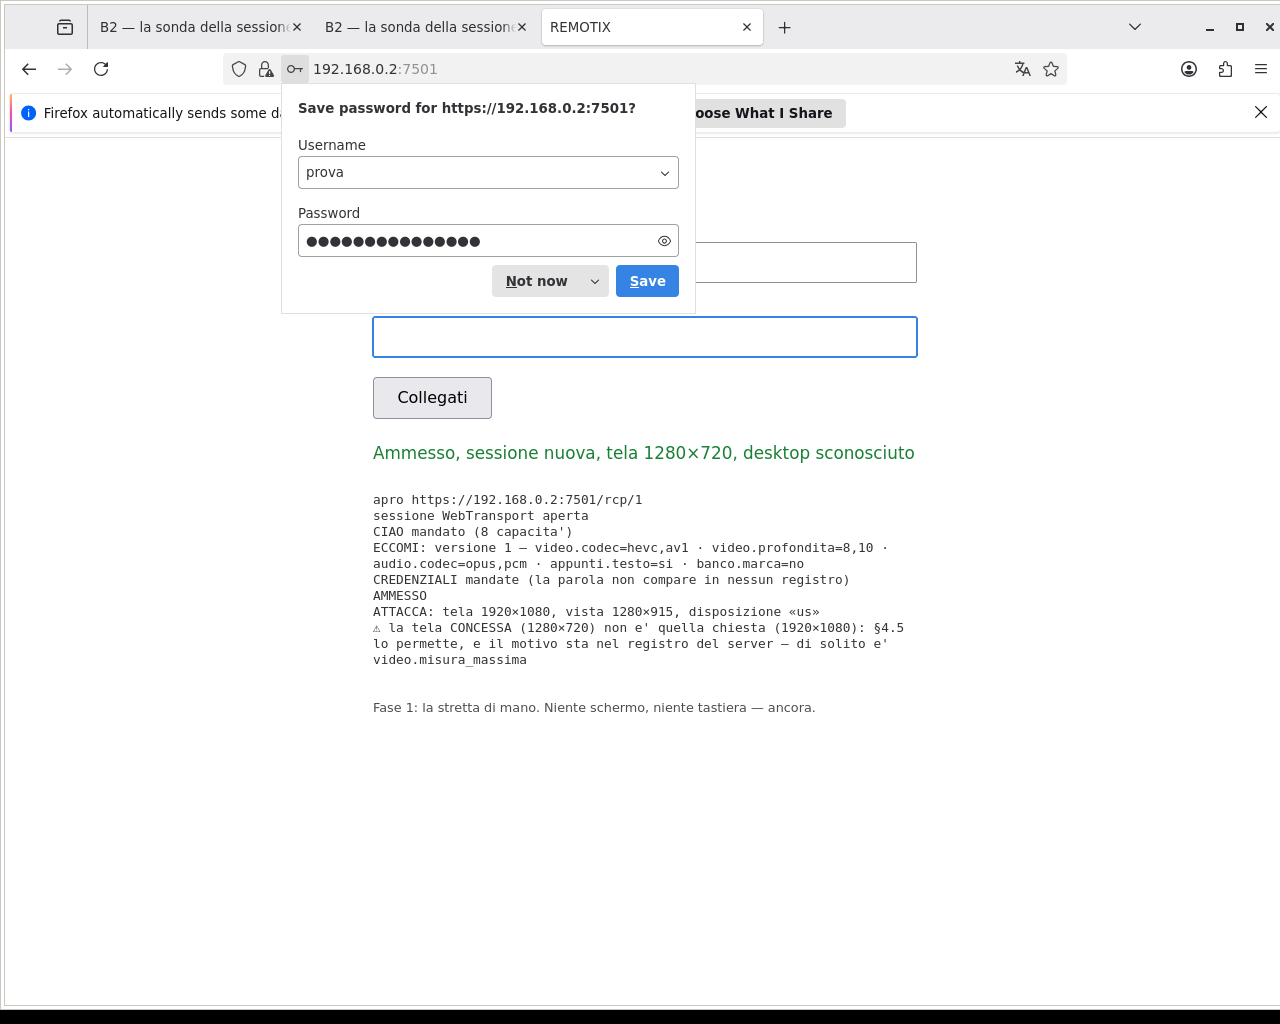
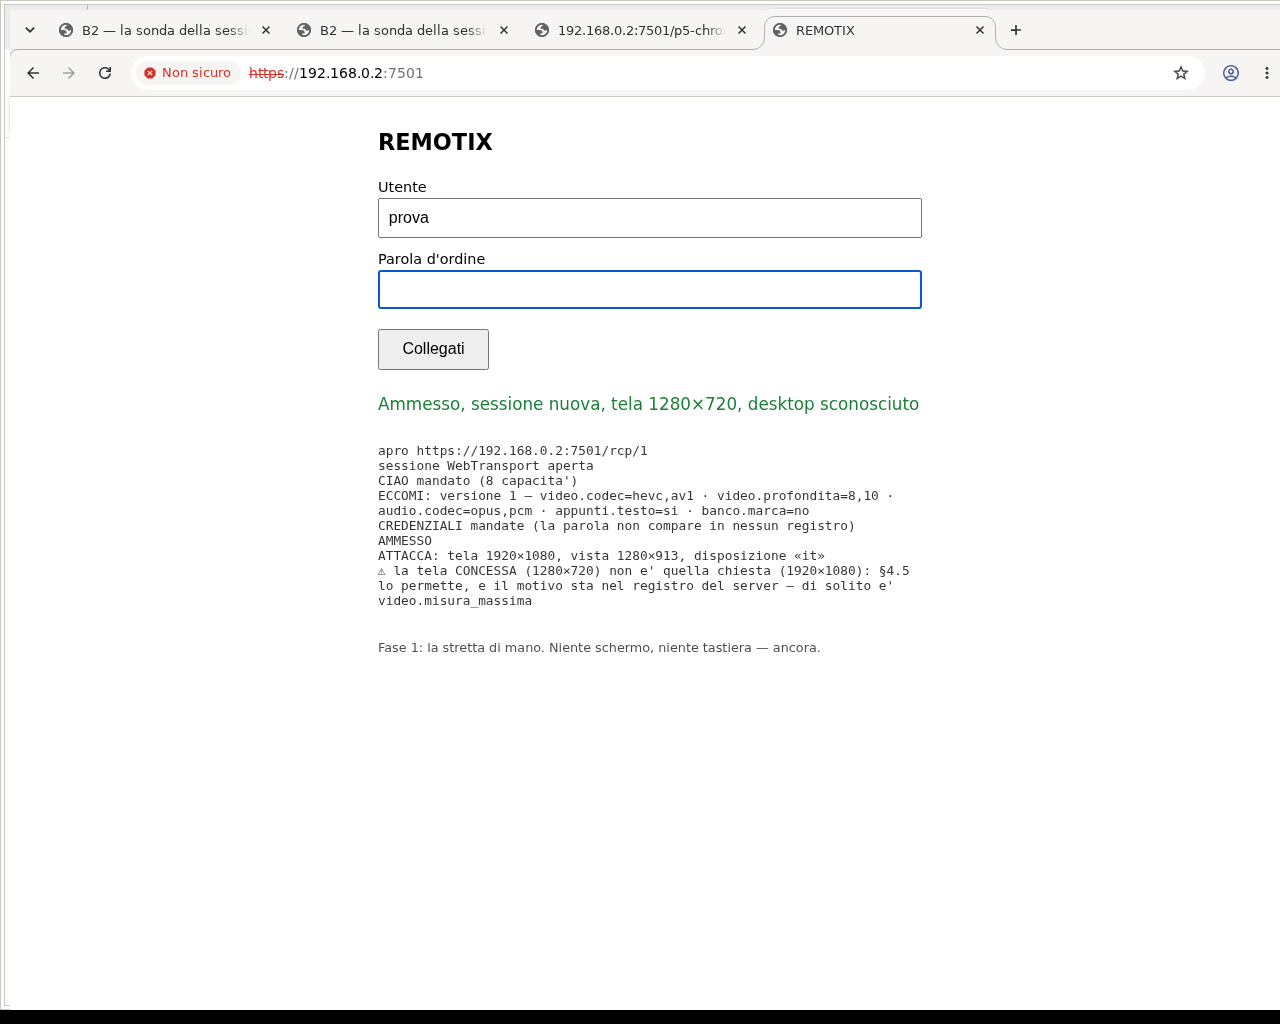
P5 rilanciato: la gamba che contava e' VERDE su tutt'e due i motori — e due difetti del pilota trovati da due fotografie
⭐⭐ IL RISULTATO.  `[M]` la notte fra l'11 e il 12 agosto 2026, contro una copia
del prodotto CURATO sulla 7501: la gamba `p-sessione` e' CONFORME su Chrome E su
Firefox — 15 controlli, 0 guasti, congedo per tutt'e due le strade col motivo
0x01, violazione-31 a zero, posto preso e lasciato.  ⇒ Il punto che teneva P5
fuori dal verde non c'e' piu'.

⭐ E LA GAMBA N2 GIRA, per la prima volta da quando esiste: bastava poter passare
da sudo.  `SSH_ROOT` sceglie il portatore dei comandi privilegiati, e lo sblocco
di §4.4-bis risponde PONG.  ⛔ I due portatori restano DUE: sshpw.py lascia due
righe di preambolo nel proprio stdout, e usarlo anche per SCARICARE il registro
sporcherebbe la prova con lo strumento che la raccoglie.

⛔ DUE DIFETTI DEL PILOTA, e tutt'e due li ha trovati una FOTOGRAFIA — cioe' la
cosa che questo banco scatta dicendo «materiale per chi legge, NON un verdetto».

 1. Il browser di N1 SOPRAVVIVE e la gamba dopo ci si attacca.  Firefox con tre
    schede — due della sonda — fermo sul marcatore d'avvio dopo due ctrl+l +
    indirizzo + Invio andati nel vuoto.  `kill` ammazza il processo ma la
    finestra resta, e la gamba dopo riusa lo stesso profilo: il browser nuovo
    non nasce, si attacca al vecchio.  ⭐ Cura gia' in casa: quella che
    01-p5-ff-lancia.sh aveva misurato lo stesso giorno (pulisci_scena).
 2. La striscia «Firefox automatically sends some data…» spinge la pagina in giu'
[…]

diff --git a/banchi/01-b12-guasti.py b/banchi/01-b12-guasti.py
@@ -1006,7 +1006,35 @@ guasto(
     "ricostruisce",
     "fasi/01-filo-nudo.md P5 · RCP.md §4.1-bis (R1.14) · README.md «CHE COSA "
     "FARE ADESSO» punto 5",
-    nota="⛔ **P5 E' PROVATO E NON RIUSCITO — e non «non provabile qui», che e' "
+    nota="⭐⭐ **AGGIORNATO LA NOTTE FRA L'11 E IL 12 AGOSTO 2026 — I QUATTRO "
+         "OSTACOLI DELL'ELENCO IN FONDO SONO TRE FATTI E UNO IN CORSO.**\n"
+         "       ⭐ **1 — il congedo di Firefox: CURATO NEL PRODOTTO E "
+         "MISURATO.**  L'imputato era la pagina (`congeda_corrente` azzerato un "
+         "millisecondo dopo `SESSIONE`), su tutt'e due i motori; la cura e' in "
+         "`src/pagina.html` e in `src/rcp.c` (il `posto LASCIATO` che sulla "
+         "strada del congedo non veniva scritto).  Fuori fase e dichiarata: "
+         "`DECISIONI.md` §1.12.\n"
+         "       ⭐ **2 — la scena: CURATA.**  Due schede, cosi' `ctrl+w` chiude "
+         "la SCHEDA e non fa uscire Firefox; il contatore pretende `motivo "
+         "0x01`; la scena si ripulisce prima di ogni browser; e la striscia dei "
+         "dati di Firefox non sposta piu' la pagina sotto i clic misurati.\n"
+         "       ⭐ **3 — lo sblocco: CURATO.**  `SSH_ROOT` sceglie il portatore "
+         "dei comandi privilegiati (`v1/strumenti/sshpw.py` digita la password "
+         "su un pty).  ⇒ **La gamba N2 gira, per la prima volta.**\n"
+         "       ⭐⭐ **E IL RISULTATO CHE CONTA**: `[M]` la gamba `p-sessione` "
+         "e' **CONFORME su TUTT'E DUE i motori** — 15 controlli, 0 guasti, "
+         "`violazione-31` a zero, il posto preso e lasciato.\n"
+         "       ⏳ **4 — i tre giri sano → guasto → sano: DA FARE.**  Il primo "
+         "e' stato interrotto dal riavvio della macchina dei browser ed e' "
+         "annullato e dichiarato in `01-p5-esiti.jsonl`.  ⛔ Il bersaglio e' la "
+         "copia sulla **7501**, che si accende con `01-p5-accendi.sh` (la "
+         "ricetta che stava in prosa qui sotto adesso e' un file, e un file non "
+         "lo si ricopia a mano sbagliando).  Il seguito sta in `README.md`, "
+         "«DA QUI SI RIPRENDE».\n"
+         "       ⚠ *Quel che segue e' la fotografia della sera dell'11, tenuta "
+         "perche' spiega da dove si partiva — e perche' il verdetto vecchio si "
+         "corregge con una misura nuova, non cancellandolo.*\n"
+         "       ⛔ **P5 E' PROVATO E NON RIUSCITO — e non «non provabile qui», che e' "
          "l'altra cosa** (R12-A.31).  Il guasto e' stato innestato, "
          "ricostruito e girato per davvero la sera dell'11 agosto 2026.\n"
          "       ⛔ **IL MOTIVO NON E' DEL GUASTO: E' CHE IL GIRO SANO DI P5 "

diff --git a/fasi/01-filo-nudo.md b/fasi/01-filo-nudo.md
@@ -1143,6 +1143,38 @@ i due scoperti erano i banchi dei due difetti più cari di v1 (R3.7, R4.6).*
 > due colonne e tutta l'impalcatura — **non è stato fatto**. Sono due parole diverse, e questa fase
 > le ha già confuse una volta.
 >
+> #### ⭐⭐ E ALLORA P5 È STATO RILANCIATO — la gamba che contava è **VERDE su tutt'e due i motori**
+>
+> *`[M]` la notte fra l'11 e il 12 agosto 2026, contro una **copia del prodotto curato** sulla
+> **7501** (`banchi/01-p5-accendi.sh`, scritto stanotte: la ricetta stava in prosa dentro il
+> catalogo dei guasti, e una ricetta in prosa la ricopia a mano chi la usa).*
+>
+> | | |
+> |---|---|
+> | ⭐⭐ **`p-sessione`: CONFORME, Chrome E Firefox** | 15 controlli, **0 guasti**: congedo per **tutt'e due** le strade col motivo `0x01`, `violazione-31` a **zero**, posto **preso e lasciato**. ⇒ Il punto che teneva P5 fuori dal verde **non c'è più** |
+> | ⭐ **e la gamba N2 gira, per la prima volta da quando esiste** | bastava poter passare da `sudo`: `SSH_ROOT` sceglie il portatore dei comandi privilegiati (`v1/strumenti/sshpw.py` digita la password su un pty), e lo sblocco di §4.4-bis risponde `PONG`. ⛔ E i due portatori restano **due**: `sshpw.py` lascia due righe di preambolo nel proprio stdout, e usarlo anche per **scaricare** il registro sporcherebbe la prova con lo strumento che la raccoglie |
+>
+> ⛔ **E due difetti del PILOTA sono venuti fuori uno dopo l'altro, tutti e due trovati da una
+> FOTOGRAFIA** — cioè dalla cosa che questo banco scatta dicendo *«materiale per chi legge, NON un
+> verdetto»*:
+>
+> | | trovato da | e la cura |
+> |---|---|---|
+> | ⛔ **il browser di N1 sopravvive, e la gamba dopo ci si attacca** | `firefox-n2-parola-sbagliata-1-pagina.png`: Firefox con **tre schede** — due della sonda di N1 — ferma sul marcatore d'avvio, dopo due `ctrl+l`+indirizzo+`Invio` andati nel vuoto | `kill` ammazza il processo ma **la finestra resta**, e la gamba dopo riusa **lo stesso profilo**: il browser nuovo non nasce, si attacca al vecchio come scheda in più. ⭐ Cura **già in casa**: è quella che `01-p5-ff-lancia.sh` aveva misurato lo stesso giorno |
+> | ⛔ **la striscia dei dati sposta la pagina di ~23 px** | `firefox-0-avviso-non-superato.png`: l'avviso del certificato **non superato**, con la barra *«Firefox automatically sends some data…»* in cima | i due clic di `supera_avviso` stanno a coordinate **misurate**, e con la barra cadono **sopra** i bottoni. ⭐ La cura non è spostare le coordinate — è **togliere la barra**, così la misura da cui quei numeri vengono torna a valere |
+>
+> ⛔⭐ **E il secondo lo nascondeva il primo**: finché la gamba del prodotto riusava il browser di N1,
+> la striscia se l'era già mangiata la sessione precedente. ⇒ *Curato un difetto, il secondo è
+> comparso* — ed è la stessa forma del `posto` muto qui sopra, due volte nella stessa notte.
+>
+> ⚠ **E il banco ha fatto la cosa giusta la prima volta che è successo**: la gamba N2 su Firefox non
+> ha dato un rosso, ha detto **SENZA-DENOMINATORE**. È il controllo aggiunto curando la scena, e ha
+> funzionato al primo caso vero.
+>
+> ⏳ **Quel che manca è la certificazione**, e sono i tre giri `sano → guasto → sano`: il primo è
+> stato interrotto dal riavvio della macchina dei browser ed è **annullato e dichiarato** in
+> `01-p5-esiti.jsonl`. Il seguito sta in `README.md`, «DA QUI SI RIPRENDE».
+>
 > ✅ **E la cura è un cambiamento di prodotto dopo la chiusura della fase, quindi è stata
 > DICHIARATA**: `DECISIONI.md` §1.12, dall'utente la stessa notte. ⛔ **La fase 1 non si riapre** e
 > la certificazione resta **12 su 14** com'è stata consegnata — questa sezione è un'**appendice

diff --git a/README.md b/README.md
@@ -232,7 +232,51 @@ moderno — e un protocollo nostro chiamato **RCP** — *Remotix Control Protoco
 >
 > ---
 >
-> ### ⛔ SI RIPARTE DA QUI — l'11 agosto 2026 *(la mattina — tenuto perché spiega da dove si partiva)*
+> ### ⛔⭐ DA QUI SI RIPRENDE — la notte fra l'11 e il 12 agosto 2026, **a metà di P5**
+>
+> *Il lavoro si è fermato su richiesta dell'utente per riavviare la macchina dei browser (CHUWI),
+> dentro il terzo giro sano di P5. ⛔ Quel giro è **annullato e dichiarato** in
+> `banchi/01-p5-esiti.jsonl`: nessun `VERDETTO-MOTORE` è stato scritto, e non conta né a favore né
+> contro.*
+>
+> **Che cosa è già in cassa** — tutto committato, albero pulito:
+>
+> | | |
+> |---|---|
+> | ⭐⭐ **la gamba `p-sessione` di P5 è CONFORME su TUTT'E DUE i motori** | `[M]` 15 controlli, **0 guasti**, Chrome **e** Firefox: il congedo per tutt'e due le strade col motivo `0x01`, `violazione-31` a **zero**, il posto preso e lasciato. ⇒ **Il difetto che teneva P5 fuori dalla certificazione non c'è più** |
+> | ⭐ **tre cure di prodotto e tre di banco**, tutte misurate | prodotto: l'ancora di `congeda_corrente` (`pagina.html`) e il `posto LASCIATO` sulla strada del congedo (`rcp.c`). Banco: la scena a due schede, il contatore che legge `motivo 0x01`, la scena ripulita prima di ogni browser, e la striscia dei dati di Firefox |
+> | ⭐ **e la gamba N2 gira, per la prima volta** | bastava poter passare da `sudo`: `SSH_ROOT` sceglie il portatore dei comandi privilegiati, e lo sblocco di §4.4-bis risponde `PONG` |
+>
+> **Che cosa manca**, ed è la certificazione vera e propria — **tre giri, in quest'ordine**:
+>
+> 1. ⏳ **il giro sano**, verde su tutt'e due i motori (interrotto dal riavvio: si rifà da capo);
+> 2. **il giro col guasto innestato**, che deve uscire **rosso** — il guasto è in catalogo
+>    (`01-b12-guasti.py`, voce `P5`): la pagina pubblica un'impronta di sessione **diversa** da
+>    quella che `/impronta` dichiara, cioè il difetto **R1.14** di `RCP.md` §4.1-bis. La marca da
+>    vedere **solo** nel rosso è *«sono due impronte diverse per lo stesso certificato di sessione»*;
+> 3. **il giro risanato**, di nuovo verde.
+>
+> ⛔ **Fra un passo e l'altro ci vanno DUE cose, non una**: `costruisci.sh` sulla copia **e** il
+> server riacceso su quel binario. P5 non ricostruisce da sé — trova un server acceso e lo interroga
+> — quindi saltarne una lo farebbe misurare il binario di prima **con l'aria di aver innestato**.
+>
+> **Lo stato della macchina di prova**, da verificare prima di ripartire:
+>
+> ```
+> # il bersaglio: una COPIA del prodotto CURATO, porta 7501, ban e socket suoi
+> bash /media/REMOTIX/enter.sh --root "bash /srv/src/01-p5-accendi.sh accendi"
+>
+> # il giro, DA CHUWI (i browser stanno di qua)
+> SSH_ROOT="python3 v1/strumenti/sshpw.py" \
+>   IND=192.168.0.2 PORTA=7501 SOCK=/srv/src/tmp/sera-p15.sock \
+>   LOG_SERVER=/media/REMOTIX/src/tmp/sera-p15-browser.log \
+>   SCHERMO=:79 PORTA_LOC=8859 bash banchi/01-p5-lancia.sh
+> ```
+>
+> ⚠ Se il riavvio ha portato via anche il server, `01-p5-accendi.sh copia` rifà copia e costruzione
+> (`GEMELLO=/srv/src/rcp`). ⛔ E la certificazione che ne verrà sarà **contro la copia sulla 7501**:
+> il server di casa sulla **7448** gira ancora il binario di stamattina, **senza** le due cure di
+> stanotte, e chi lo interrogasse misurerebbe il prodotto di prima.
 >
 > #### ⭐⭐ IL PRODOTTO ESISTE: `src/`, il server della fase 1 in C
 >
